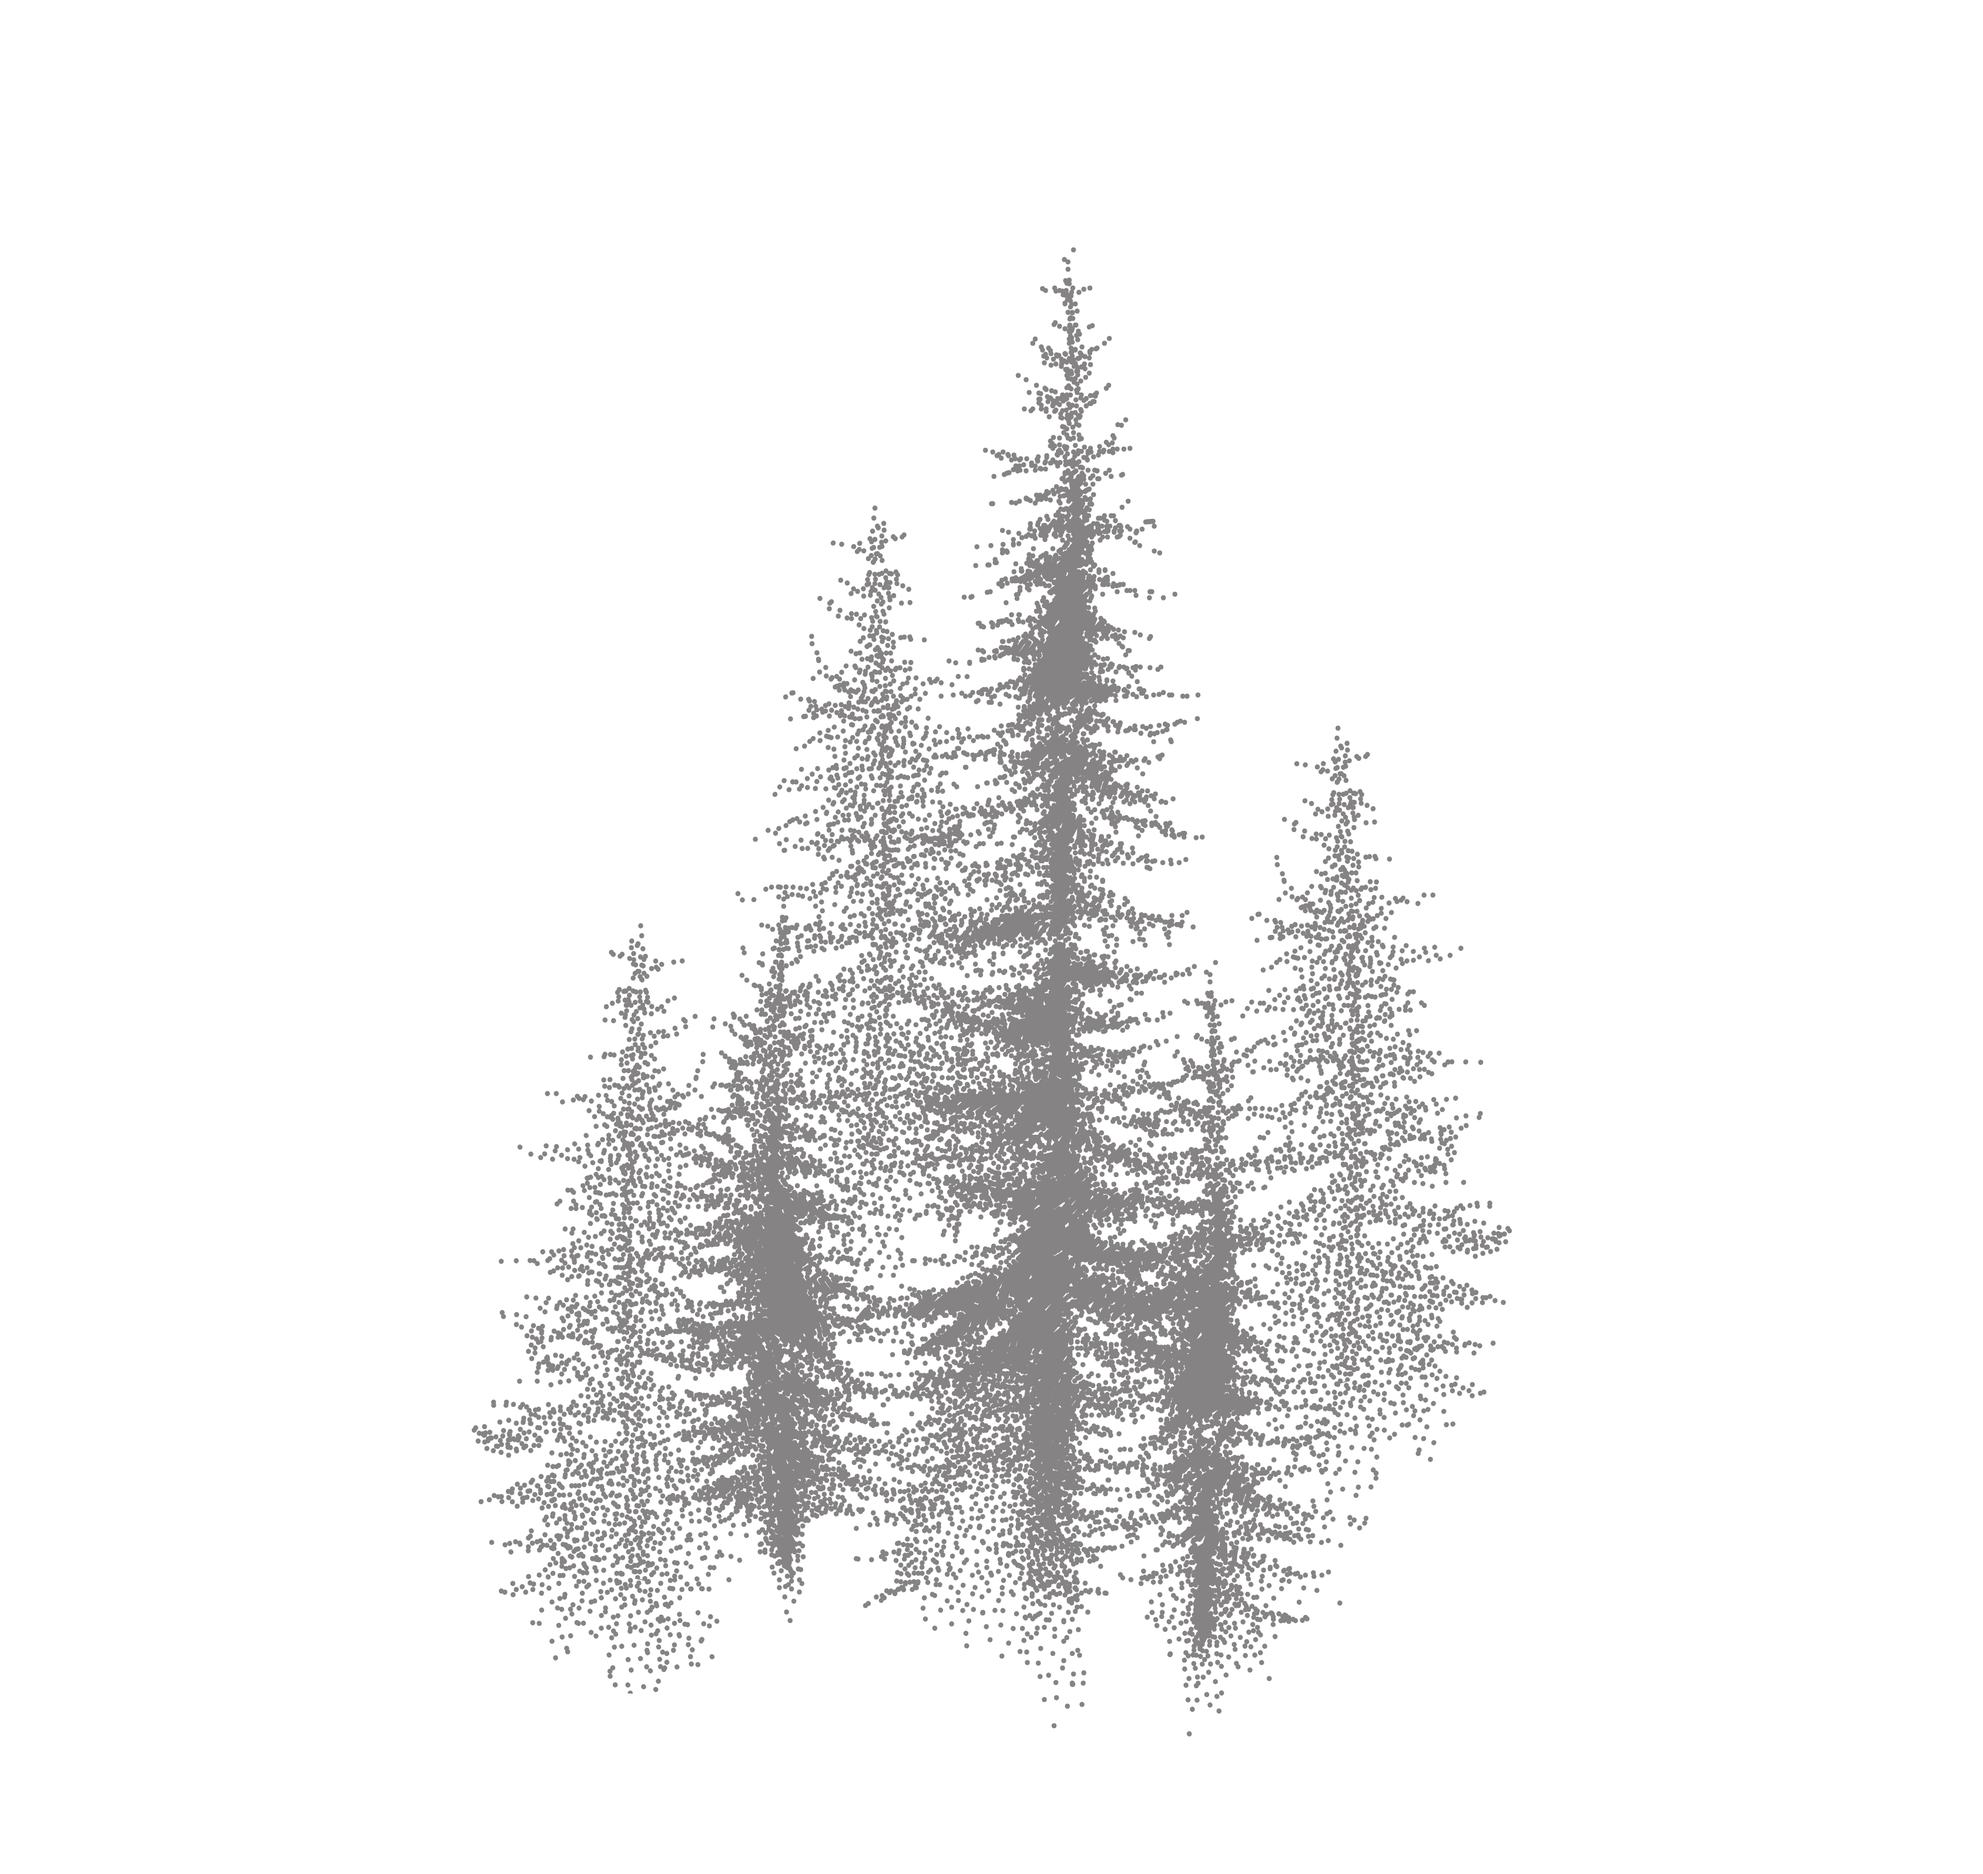
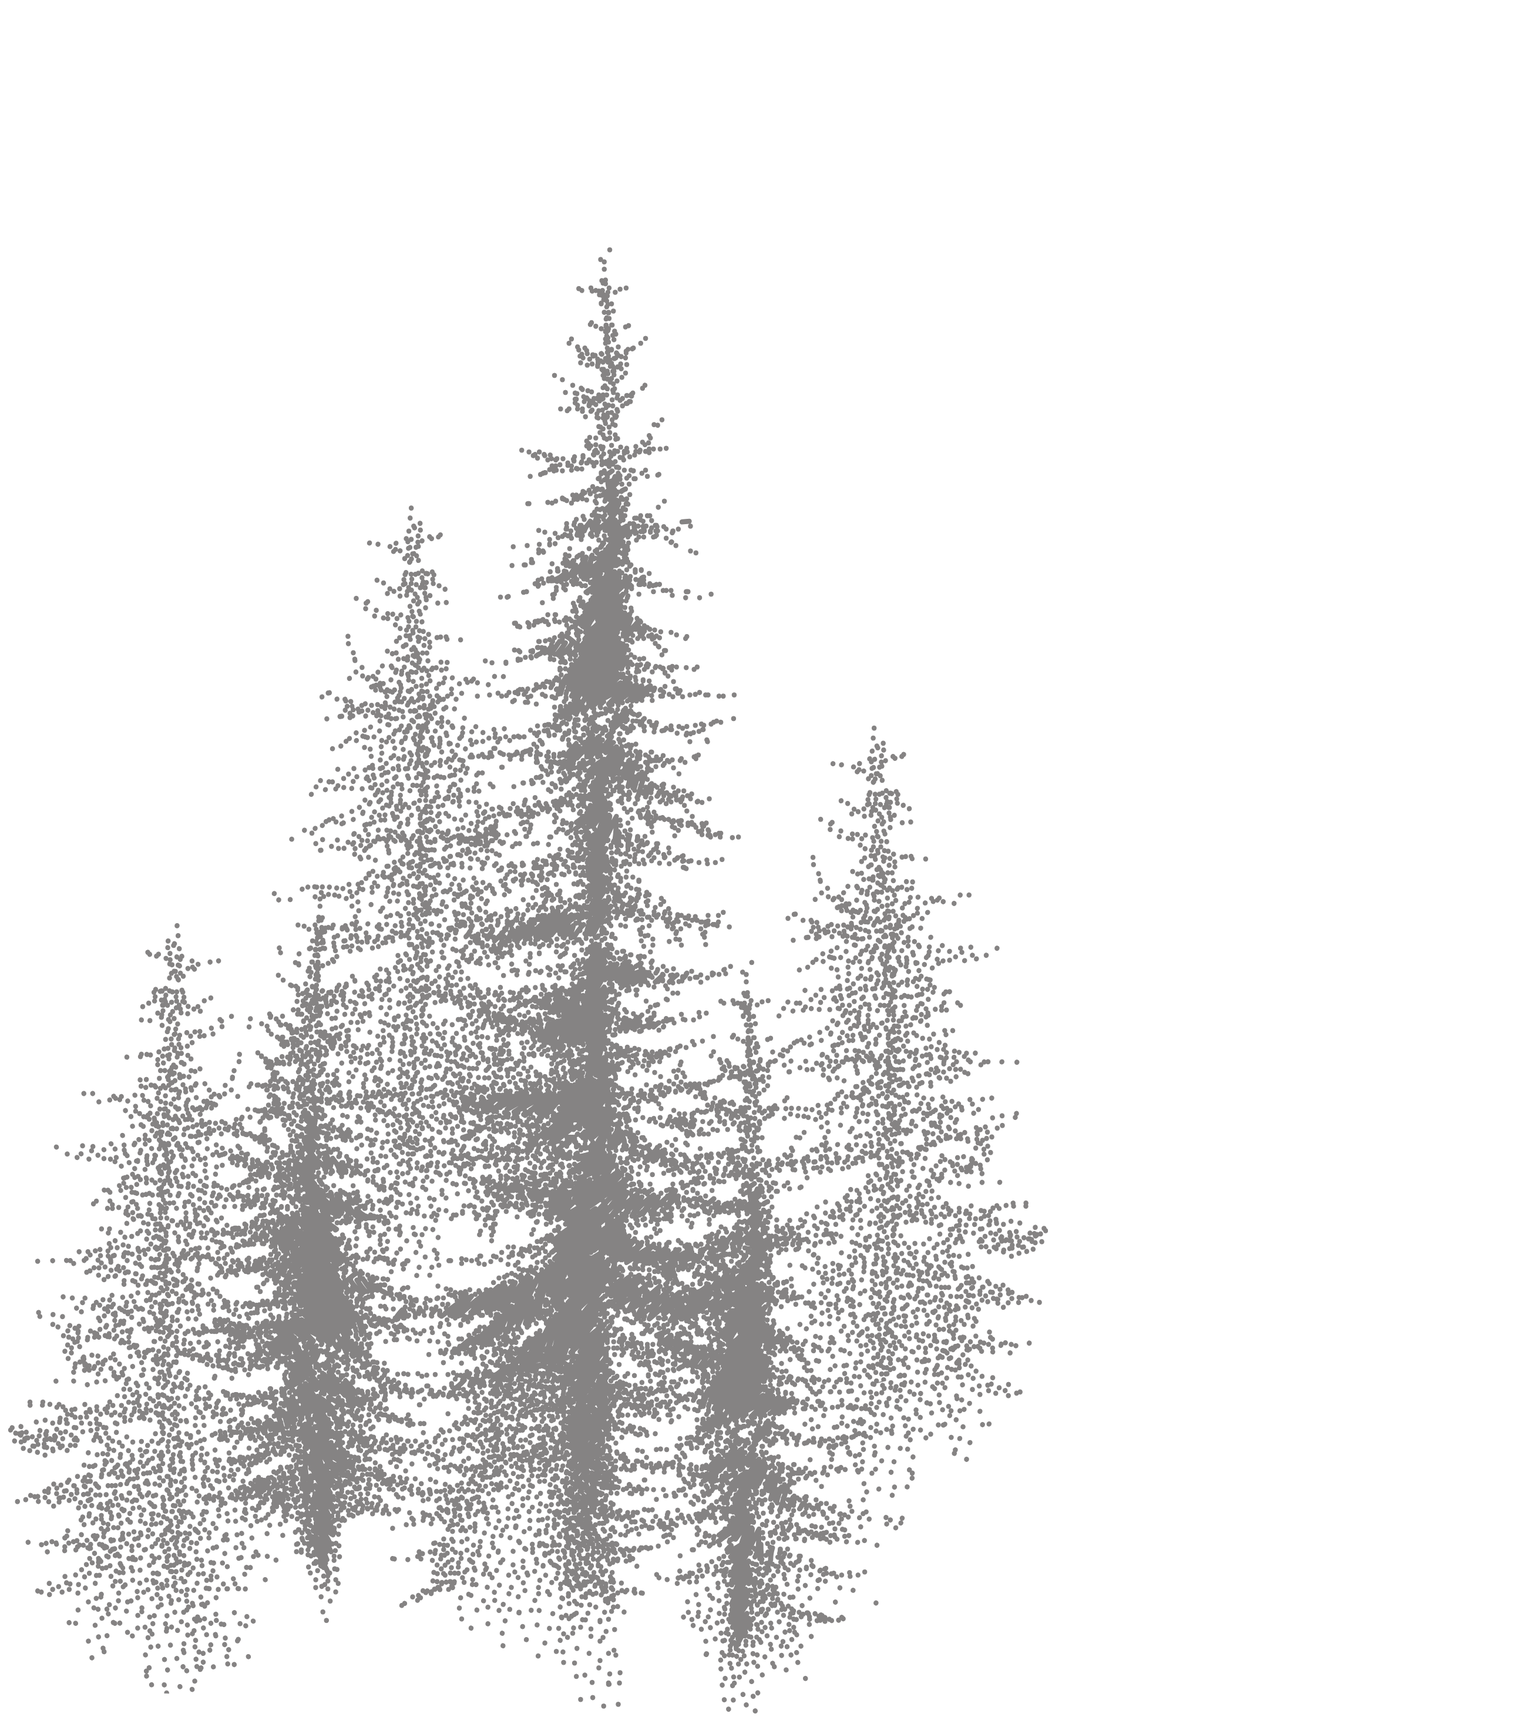
UI changes

Changed region(s): [[0.0, 0.1557, 0.7734, 0.9966]]

diff --git a/src/index.css b/src/index.css
@@ -397,7 +397,8 @@ width: 30% ;
 .whyus-heading h3{
   text-align: center;
   font-size: 50px;
-  font-weight: 600;
+  font-weight: 400;
+
   color: #354123;
   padding-top: 50px;
 }
@@ -1187,10 +1188,16 @@ padding: 20px;
   padding: 150px 20px;
 }
 }
+.question-text{
+  font-size: 16px;
+}
 @media (max-width: 768px) {
     .Home-slider-overlay p{
   color: white;
   font-size: 8px;
+}
+.question-text{
+  font-size: 14px;
 }
 .Home-slider-overlay h3{
   color: white;
@@ -1212,13 +1219,13 @@ padding: 20px;
   padding: 50px 20px;
 }
 .home-aboutus h3{
-  font-size: 35px;
+  font-size: 25px;
 }
 .home-aboutus h4{
   font-size: 16px;
 }
 .home-aboutus p{
-  font-size: 16px;
+  font-size: 14px;
 }
 .newfeatures-heading{
   text-align: center;
@@ -1267,7 +1274,7 @@ padding: 20px;
 
 }
 .ab-banner-overlay h3{
-  font-size: 35px;
+  font-size: 20px;
 }
 .gallery {
   padding: 20px;
@@ -1278,6 +1285,14 @@ padding: 20px;
 
 
 @media (max-width: 750px) {
+  .whyus-text h3{
+  font-size: 20px;
+  font-weight: 700;
+}
+.whyus-text p{
+  font-size: 14px;
+  margin-top: 10px;
+}
   .whyus-card{
     width: 100%;
   }
@@ -1286,11 +1301,11 @@ padding: 20px;
   gap: 20px;
 }
 .whyus-heading h3{
-  font-size: 35px;
+  font-size: 25px;
 
 }
 .faq-heading{
-    font-size: 35px;
+    font-size: 25px;
 
 }
 }
@@ -1323,13 +1338,20 @@ padding: 20px;
 .Features-div2-right{
   width: 100%;
 }
+
 .Features-div2{
   flex-direction: column;
   gap: 30px;
   padding: 20px;
 }
+.Features-div3{
+  flex-direction: column-reverse !important;
+}
   .Features-div2-left h3{
   font-size: 30px;
+}
+.Features-div2-right img{
+  width: 100%;
 }
 }
 @media (max-width: 1200px) {

diff --git a/src/Pages/Features.jsx b/src/Pages/Features.jsx
@@ -52,7 +52,7 @@ areas</li>
     </div>
       
     </div>
-    <div className='Features-div2' id="Communityfeatures">
+    <div className='Features-div2 Features-div3' id="Communityfeatures">
     <div className='Features-div2-left' >
     <h3 data-aos="fade-up" className='Belleza'>Community features</h3>
     <p data-aos="fade-up">Nirvaana Hills is where the beauty of the hills meets the warmth of community. It’s
@@ -113,7 +113,7 @@ provision</li>
     </div>
       
     </div>
-      <div className='Features-div2' id="Clubhousefeatures">
+      <div className='Features-div2 Features-div3' id="Clubhousefeatures">
     <div className='Features-div2-left' >
     <h3 className='Belleza' data-aos="fade-up">Clubhouse features
 </h3>

diff --git a/src/Pages/OurLegacy.jsx b/src/Pages/OurLegacy.jsx
@@ -27,7 +27,7 @@ function OurLegacy() {
     </div> */}
     <div className='OurLegacy-div OurLegacy-div2'>
 <div className='OurLegacy-div-left'>
-<h3 data-aos="fade-up"><b>SEAD</b> Realty traces its legacy back over 2 decades, starting as <i><b>S</b>hreeram <b>E</b>states <b>A</b>nd <b>D</b>evelopers.</i>
+<h3 data-aos="fade-up"><b>SEAD</b> Realty traces its legacy back over 2 decades, starting as <br/><i><b>S</b>hreeram <b>E</b>states <b>A</b>nd <b>D</b>evelopers.</i>
 <br/>
 <br/>
 What began as a construction, and Real Estate Investment & Advisory firm has gradually evolved into a full-scale

diff --git a/src/Components/FAQ.jsx b/src/Components/FAQ.jsx
@@ -92,9 +92,9 @@ function FAQ() {
           >
             <button
               onClick={() => toggleFAQ(index)}
-              className="w-full flex justify-between items-center p-4 text-left font-medium text-lg"
+              className="w-full flex justify-between items-center p-4 text-left font-medium "
             >
-              <span>{faq.question}</span>
+              <span className="question-text">{faq.question}</span>
               <span className="text-xl">
                 {openIndex === index ? "−" : "+"}
               </span>

diff --git a/src/Components/header/Header.jsx b/src/Components/header/Header.jsx
@@ -178,8 +178,12 @@ function Header() {
           </div>
         )}
       </header>
+    <a href="https://wa.me/918480064800" target="_blank" rel="noopener noreferrer">
       <img className="whatsapp-icon" src={whatsapp} />
-      <img className="call-icon" src={call} />
+</a>
+<a href="tel:+918480064800">
+  <img className="call-icon" src={call} alt="Call Icon" />
+</a>
     </div>
   );
 }

diff --git a/src/Pages/ContactUs.jsx b/src/Pages/ContactUs.jsx
@@ -36,6 +36,8 @@ function ContactUs() {
     <h4>Call</h4>
     <p>(Office) 0124 4071184 </p>
     <p>(Sales) +91 84800-64800 </p>
+    <p>(Sales) +91 95895-85050 </p>
+    
     </div>
    </div>
    <div className='circle-icon-info'>
